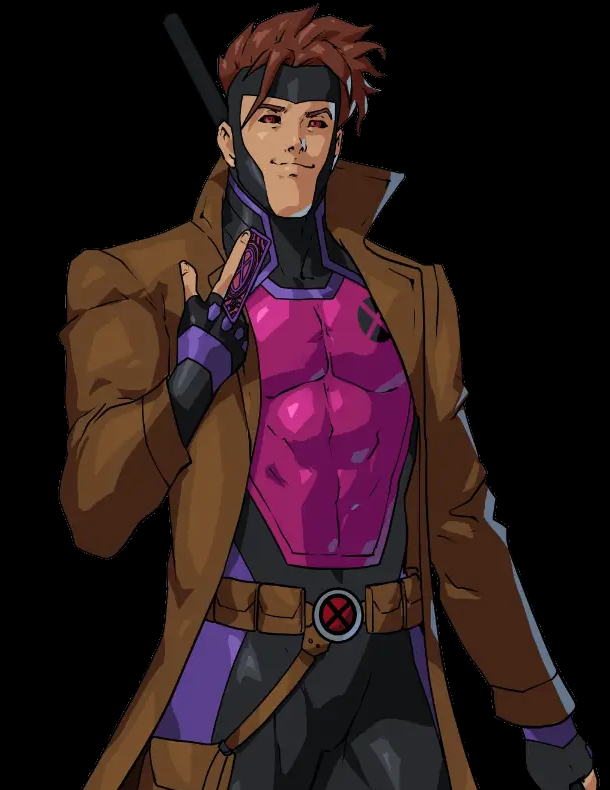
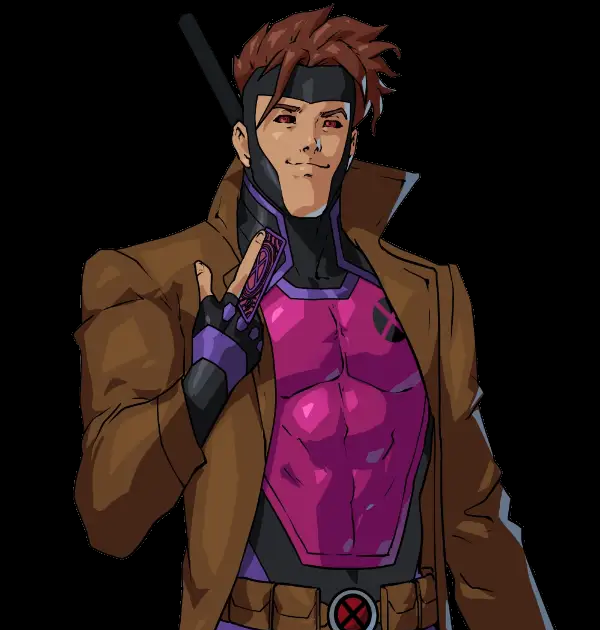
Refine character header framing and add Iceman uniform artwork

diff --git a/src/lib/visual-identity.ts b/src/lib/visual-identity.ts
@@ -19,10 +19,11 @@ const characterIdentities:Record<string,VisualIdentity>=Object.fromEntries(Objec
     ...(palette.primary==='#161616'?{colorField:'secondary'}:{}),
   } satisfies VisualIdentity,
 ]));
-const uniformIdentities:Record<string,VisualIdentity>=Object.fromEntries(uniformArt.artwork.map(({character,gallerySize,headerCrop})=>{
+const uniformIdentities:Record<string,VisualIdentity>=Object.fromEntries(uniformArt.artwork.map(({character,costumes,headerCrop})=>{
   const slug=character.toLowerCase();
-  const art:ConceptArt={file:`/images/uniforms/${slug}-uniform.webp`,label:'Uniform',alt:`${character}, full-body character uniform concept`,...gallerySize};
-  return [`character-${slug}`,{...characterIdentities[`character-${slug}`],motif:'portrait',costumes:[art],
+  const gallery:ConceptArt[]=costumes.map(({file,label,width,height})=>({file:`/images/uniforms/${file}`,label,width,height,alt:`${character}, full-body ${label.toLowerCase()} costume concept`}));
+  const art=gallery[gallery.length-1];
+  return [`character-${slug}`,{...characterIdentities[`character-${slug}`],motif:'portrait',costumes:gallery,
     headerArt:{...art,file:`/images/uniforms/${slug}-header.webp`,width:headerCrop.width,height:headerCrop.height,preparedHeader:true,alt:`${character}, upper-body crop of the supplied uniform concept`},
   } satisfies VisualIdentity];
 }));

diff --git a/src/styles/visual-identity.css b/src/styles/visual-identity.css
@@ -44,6 +44,7 @@
 .v6-page .folio-count{font-family:var(--display);font-size:30px;letter-spacing:.07em;color:var(--identity-readable);white-space:nowrap}
 .v6-page .costume-plates{list-style:none;padding:0;margin:0;display:grid;grid-template-columns:repeat(3,minmax(0,1fr));gap:22px}
 .v6-page .costume-plates[data-count="1"]{grid-template-columns:minmax(0,440px);justify-content:center}
+.v6-page .costume-plates[data-count="2"]{grid-template-columns:repeat(2,minmax(0,440px));justify-content:center}
 .v6-page .costume-plates li{min-width:0}
 .v6-page .costume-plates figure{margin:0}
 .v6-page .costume-art-link{display:block;position:relative;background:#000;border:1px solid var(--identity-rule);border-top:3px solid var(--identity-secondary);padding:18px;transition:border-color .16s ease}
@@ -105,7 +106,7 @@
   .v6-character #timeline .narrative-section{padding-left:17px}
   .v6-page .folio-heading{align-items:center;gap:15px}
   .v6-page .folio-count{font-size:21px}
-  .v6-page .costume-plates{grid-template-columns:1fr;gap:34px;max-width:440px;margin-inline:auto}
+  .v6-page .costume-plates,.v6-page .costume-plates[data-count="2"]{grid-template-columns:1fr;gap:34px;max-width:440px;margin-inline:auto}
   .v6-page .costume-art-link{padding:16px}
   .v6-page .costume-art-link img{height:460px;aspect-ratio:auto}
   .v6-page .costume-enlarge{font-size:10px}

diff --git a/src/styles/character-refinements.css b/src/styles/character-refinements.css
@@ -36,7 +36,7 @@
 /* New uniform headers are pre-cropped around actual body landmarks, not the
    canvas midpoint. Show that reviewed crop without a second automatic zoom. */
 .v6-character .identity-art .hero-portrait.prepared-portrait img{
-  position:static;inset:auto;object-fit:contain;object-position:center;transform:none;
+  position:static;inset:auto;object-fit:cover;object-position:50% 0%;transform:none;
 }
 .v6-character .identity-art .hero-portrait::before,
 .v6-character .identity-art .hero-portrait::after{
